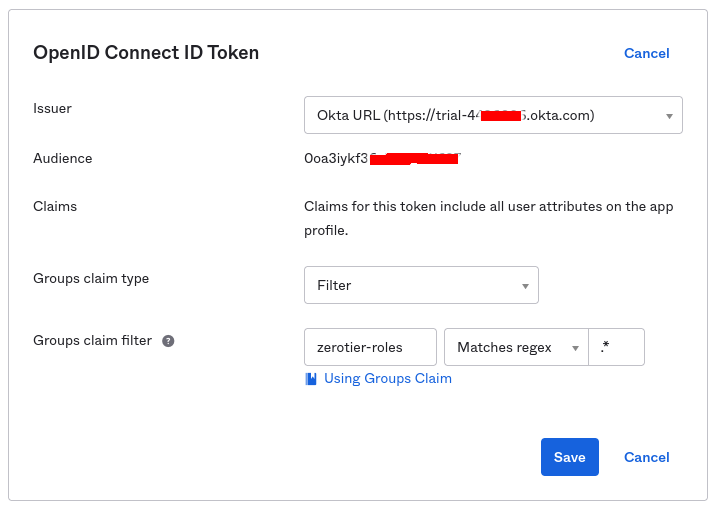
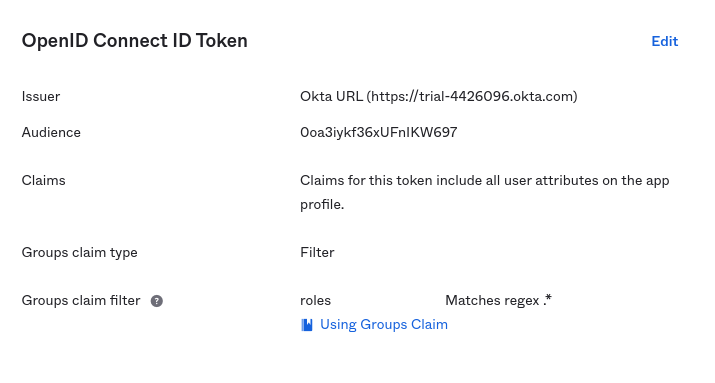
More SSO group/role docs

diff --git a/docs/central/sso.md b/docs/central/sso.md
@@ -32,7 +32,7 @@ You can configure multiple OIDC clients for your organization, but only one may 
 If you enable this on an existing network, you may accidentally block existing users. Please practice on a test network.
 ![SSO-Network-Enable](/img/sso-network-enable.png)
 
-There are three login modes for SSO enabled networks.
+There are three login modes for SSO enabled networks:
 
 1. Standard - If the user can successfully authenticate to your OIDC provider, they weill be allowed access to the ZeroTier network
 2. [Email Based Access](/central/sso#email-based-network-access) - The user is allowed to access the network if and only if their email address is in the email list provided by the network administrator.
@@ -63,7 +63,7 @@ Please ensure the following fields are set on your Auth0 application config:
 - Application Type:  Native
 - Token Endpoint Authentication Method: None
 - Allowed Callback URL: http://localhost:9993/sso
-- Under Advanced Settings -> Grant Types, ensure Implicit, Authorization Code, and Refresh Token are selected.
+- Under Advanced Settings -> Grant Types, ensure Authorization Code, and Refresh Token are selected.
 
 :::note
 
@@ -228,11 +228,9 @@ With Email based network access, a network administrator can limit access to the
 
 ## Role Based Network Access
 
-Configuring Role Based Access controls is different across all of the different OIDC providers available.  We'll give examples for many of the large ones. The one commonality between all of them is the name of the field the roles must be mapped to:
+Configuring Role Based Access controls is different across all of the different OIDC providers available.  We'll give examples for many of the large ones. 
 
-`zerotier-roles`
-
-Aside from that, role/group names are up to the network administrator.  Simply add one or more role name to your network configuration, and users will be required to have at least one of those roles assigned in order to acess the network.
+Role/group names are up to the network administrator.  Simply add one or more role name to your network configuration, and users will be required to have at least one of those roles assigned in order to acess the network.
 
 ### Auth0
 
@@ -253,11 +251,18 @@ In order for ZeroTier to be able to read the roles a user has been assigned, the
 Next you will get a screen with a code editor.  Delete everything in the buffer and add the following:
 
     exports.onExecutePostLogin = async (event, api) => {
+        const namespace = "https://my.zerotier.com";
         if (event.authorization) {
-            api.idToken.setCustomClaim(`zerotier-roles`, event.authorization.roles);
-            api.accessToken.setCustomClaim(`zerotier-roles`, event.authorization.roles);
+            api.idToken.setCustomClaim(`${namespace}/roles`, event.authorization.roles);
+            api.accessToken.setCustomClaim(`${namespace}/roles`, event.authorization.roles);
         }
     }
+    
+:::note
+
+Auth0 requires roles to be in a namespaced name. To properly intergrate with ZeroTier Central, the final claim name set on the token via the script above **must** be `https://my.zerotier.com/roles`. Please enter the login script exactly as shown above to reduce the chances of errors.
+
+:::
 
 Once it is entered, hit `Deploy` on the upper right hand side of the screen.  
 
@@ -266,6 +271,24 @@ Hit the `<- Back to flow` link, which will take you back to the Login Flow graph
 ![auth0 login flow](/img/sso-auth0-login-flow.png)
 
 Your users' assigned roles will now be attached to the tokens required to authorize a user on your ZeroTier networks. 
+
+### Azure AD
+
+https://learn.microsoft.com/en-us/azure/active-directory/develop/howto-add-app-roles-in-azure-ad-apps
+
+### Step 1: Create an App Role
+
+In the Azure portal, go to Azure Active Directory and select App Registrations. Select the app you've created for integration with ZeroTier Central.  In the Manage menu, select App Roles, and then create a new app role and hit Apply
+
+![azure app role](/img/sso-azure-app-role.png)
+
+The `Value` field is what you use as the role name in the network configuration on https://my.zerotier.com
+
+### Step 2: Assign App Role
+
+Go back to Azure Active Directory in the Azure portal. Select Enterprise Applications from the list of optoins on the side of the screen.  Select the app to be used for ZeroTier Central intergraiton.
+
+Select `Users and Groups` from the Manage menu. Select all of the users you want to assign the App Role and select `Edit Assignment`.  Click on the area of the screen that says "Select a Role", then find your newly created app role from step 1, click it and hit the `Select` button.
 
 ### Okta
 
@@ -283,7 +306,7 @@ From your Okta administrator dashboard, go to Directory and select Groups. Creat
 
 #### Step 2: Attach Groups to Tokens
 
-In the Okta administrator dashboard, go to Applications and opne the configuration for the Okta Application you've configured for use with ZeroTier.  Click the 'Edit' button in the "OpenID Connect ID Token" box.  Set "Group claim type" to "Filter", and set the three fields for "Group claim filter" to `zerotier-roles`, `Matches regex`, and `.*`.
+In the Okta administrator dashboard, go to Applications and opne the configuration for the Okta Application you've configured for use with ZeroTier.  Click the 'Edit' button in the "OpenID Connect ID Token" box.  Set "Group claim type" to "Filter", and set the three fields for "Group claim filter" to `roles`, `Matches regex`, and `.*`.
 
 ![okta token config](/img/sso-okta-setup.png)
 
